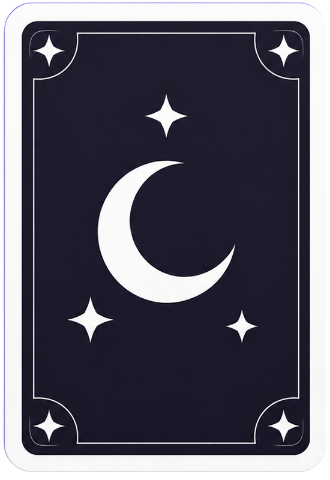
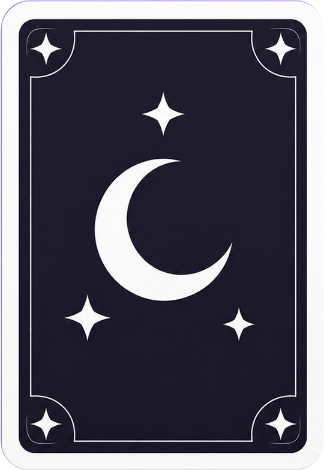
Rounded typography (Comfortaa + Nunito); crop card-back images to fill; Home buttons Party mode + Online
- Fonts: --f Comfortaa (titres), --b Nunito (corps/UI).
- Card backs cropped to non-transparent bbox -> fill the card frame (no white sides).
- Home: left 'Party mode' (-> setup), right 'Online' (soon), equal-width, centered.

diff --git a/demo/index.html b/demo/index.html
@@ -6,7 +6,7 @@
 <title>Overnight — Jeu à boire (démo jouable)</title>
 <link rel="preconnect" href="https://fonts.googleapis.com">
 <link rel="preconnect" href="https://fonts.gstatic.com" crossorigin>
-<link href="https://fonts.googleapis.com/css2?family=Plus+Jakarta+Sans:wght@500;600;700;800&family=Inter:wght@400;500;600;700&display=swap" rel="stylesheet">
+<link href="https://fonts.googleapis.com/css2?family=Comfortaa:wght@500;600;700&family=Nunito:wght@400;500;600;700;800;900&display=swap" rel="stylesheet">
 <style>
   :root{
     --bg-a:#2A1375; --bg-b:#18084F;
@@ -14,8 +14,8 @@
     --indigo:#4F38C0; --purple:#6C4FE0; --lav:#B9ACF4; --lav-soft:#E9E4FB;
     --mint:#46C9A0; --amber:#F0A93C; --coral:#FF7E8B; --blue:#4F86E0; --red:#E0392B;
     --white:#fff;
-    --f:"Plus Jakarta Sans",-apple-system,"Segoe UI",sans-serif;
-    --b:"Inter",-apple-system,sans-serif;
+    --f:"Comfortaa",-apple-system,"Segoe UI",sans-serif;
+    --b:"Nunito",-apple-system,sans-serif;
     --sh:0 12px 30px rgba(35,18,80,.22); --sh-card:0 8px 22px rgba(40,22,90,.10);
     --sh-soft:0 18px 44px rgba(34,18,80,.18);
   }
@@ -378,15 +378,15 @@ SCREENS.home = () => `<div class="fade" style="position:absolute;inset:0;${NIGHT
       <div style="width:250px;height:34px;border-radius:50%;background:radial-gradient(circle,#6B47C9,#3A1E8F);margin-top:-6px;box-shadow:0 18px 34px rgba(0,0,0,.4);"></div>
     </div>
   </div>
-  <div style="position:absolute;left:28px;right:28px;bottom:calc(44px + env(safe-area-inset-bottom));display:grid;grid-template-columns:1fr 1.25fr;gap:22px;">
-    <button onclick="alert('Mode solo — bientôt 🙂')" style="height:136px;border-radius:28px;background:linear-gradient(180deg,#9D62FF,#6E3FDB);color:#fff;border:none;box-shadow:0 18px 28px rgba(0,0,0,.28),inset 0 1px 0 rgba(255,255,255,.20);display:flex;flex-direction:column;align-items:center;justify-content:center;gap:8px;cursor:pointer;">
-      <svg width="36" height="36" viewBox="0 0 24 24" fill="none" stroke="#fff" stroke-width="2.2" stroke-linecap="round" stroke-linejoin="round"><circle cx="12" cy="8" r="4"/><path d="M5 21a7 7 0 0 1 14 0"/></svg>
-      <div style="font-family:var(--f);font-size:20px;font-weight:900;text-transform:uppercase;">Solo</div>
-      <div style="font-family:var(--b);font-size:14px;opacity:.9;">Joue en solo</div></button>
-    <button onclick="go('setup')" style="height:136px;border-radius:28px;background:linear-gradient(180deg,#FFE46A,#FFC934 55%,#F1AF24);color:#3A245C;border:none;box-shadow:0 18px 28px rgba(0,0,0,.28),inset 0 1px 0 rgba(255,255,255,.35);display:flex;flex-direction:column;align-items:center;justify-content:center;gap:8px;cursor:pointer;">
+  <div style="position:absolute;left:28px;right:28px;bottom:calc(44px + env(safe-area-inset-bottom));display:grid;grid-template-columns:1fr 1fr;gap:18px;">
+    <button onclick="go('setup')" style="height:136px;border-radius:28px;background:linear-gradient(180deg,#FFE46A,#FFC934 55%,#F1AF24);color:#3A245C;border:none;box-shadow:0 18px 28px rgba(0,0,0,.28),inset 0 1px 0 rgba(255,255,255,.35);display:flex;flex-direction:column;align-items:center;justify-content:center;gap:9px;cursor:pointer;">
       <svg width="40" height="40" viewBox="0 0 24 24" fill="none" stroke="#3A245C" stroke-width="2.2" stroke-linecap="round" stroke-linejoin="round"><circle cx="9" cy="8" r="3.2"/><path d="M3.5 20a5.5 5.5 0 0 1 11 0"/><path d="M16 6.2a3 3 0 0 1 0 5.6M20.5 20a5.5 5.5 0 0 0-3.2-5"/></svg>
-      <div style="font-family:var(--f);font-size:20px;font-weight:900;text-transform:uppercase;">Party mode</div>
-      <div style="font-family:var(--b);font-size:14px;opacity:.85;">Joue à plusieurs</div></button>
+      <div style="font-family:var(--f);font-size:19px;font-weight:700;text-transform:uppercase;">Party mode</div>
+      <div style="font-family:var(--b);font-size:13px;font-weight:600;opacity:.85;">Joue à plusieurs</div></button>
+    <button onclick="alert('Mode en ligne — bientôt')" style="height:136px;border-radius:28px;background:linear-gradient(180deg,#9D62FF,#6E3FDB);color:#fff;border:none;box-shadow:0 18px 28px rgba(0,0,0,.28),inset 0 1px 0 rgba(255,255,255,.20);display:flex;flex-direction:column;align-items:center;justify-content:center;gap:9px;cursor:pointer;">
+      <svg width="38" height="38" viewBox="0 0 24 24" fill="none" stroke="#fff" stroke-width="2.1" stroke-linecap="round" stroke-linejoin="round"><circle cx="12" cy="12" r="9"/><path d="M3 12h18"/><path d="M12 3c2.6 2.7 2.6 15.3 0 18M12 3c-2.6 2.7-2.6 15.3 0 18"/></svg>
+      <div style="font-family:var(--f);font-size:19px;font-weight:700;text-transform:uppercase;">Online</div>
+      <div style="font-family:var(--b);font-size:13px;font-weight:600;opacity:.9;">Joue à distance</div></button>
   </div>
 </div>`;
 
